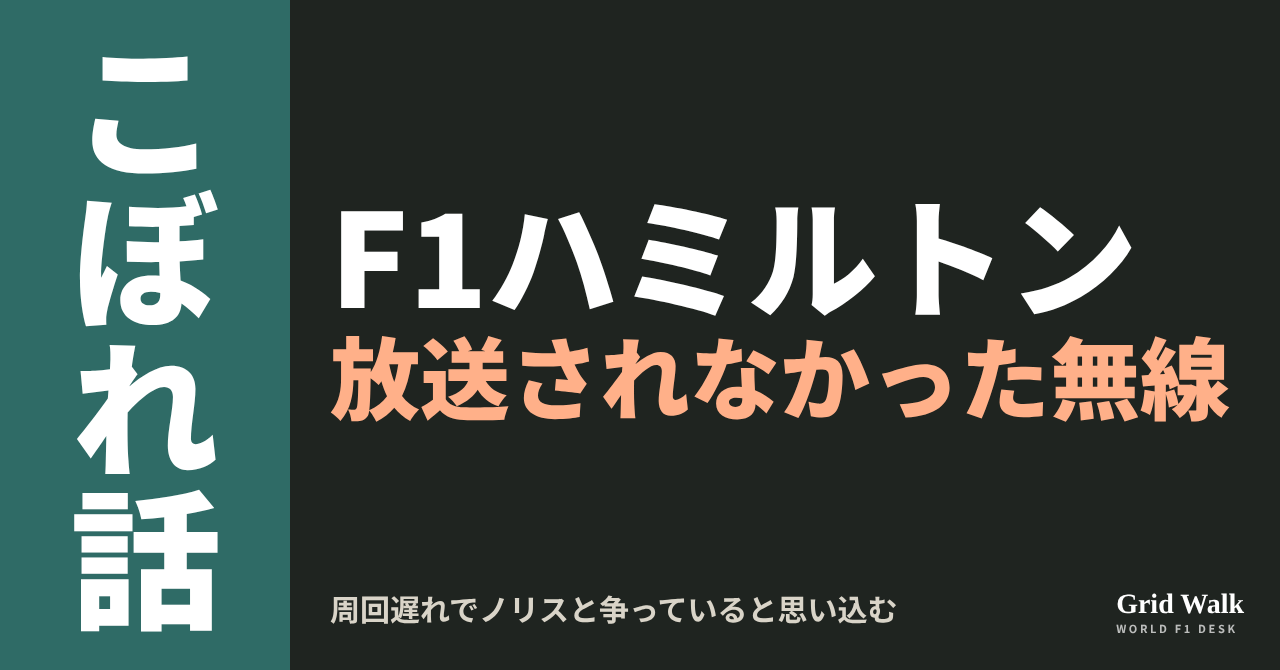
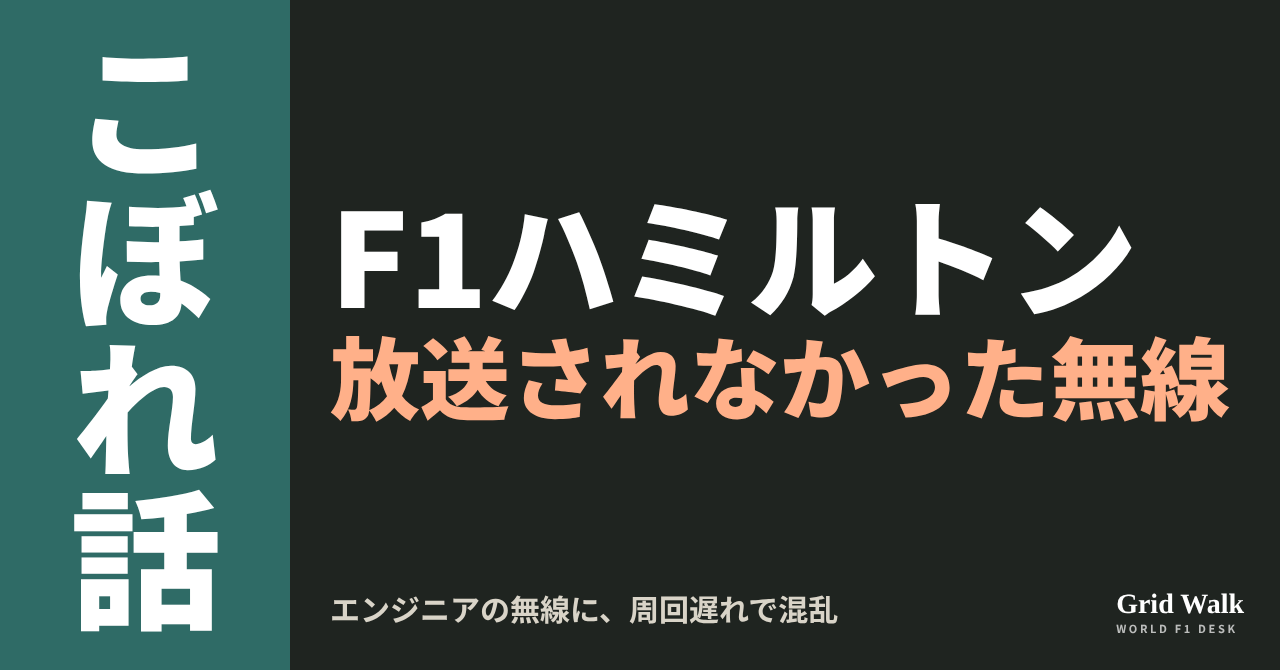
desk: 11/12の画像候補H1・H2を差し替え
Claude-Session: https://claude.ai/code/session_01LGMvzb8B3aK7DkzCCi7qDe

Changed region(s): [[0.25, 0.8657, 0.7188, 0.9552]]

diff --git a/desk/pending/1112/H1.html b/desk/pending/1112/H1.html
@@ -11,7 +11,7 @@ em{font-style:normal;color:#FFB089}
 .br{position:absolute;right:36px;bottom:34px;font:700 28px Georgia,serif}.br small{display:block;font:700 11px 'Noto Sans CJK JP';letter-spacing:.24em;opacity:.7}
 .row{display:flex;align-items:center;gap:28px;white-space:nowrap;font-weight:900}
 .row svg{flex:0 0 auto}
-</style><div class=c><div class=p><b>こぼれ話</b></div><div class=r><div class=l1>F1ハミルトン</div><div class=l2><em>放送されなかった無線</em></div></div><div class=s>周回遅れでノリスと争っていると思い込む</div><div class=br>Grid Walk<small>WORLD F1 DESK</small></div></div>
+</style><div class=c><div class=p><b>こぼれ話</b></div><div class=r><div class=l1>F1ハミルトン</div><div class=l2><em>放送されなかった無線</em></div></div><div class=s>エンジニアの無線に、周回遅れで混乱</div><div class=br>Grid Walk<small>WORLD F1 DESK</small></div></div>
 <script>
 document.querySelectorAll('.l1,.l2,.l3,.s,.row').forEach(el=>{let f=parseFloat(getComputedStyle(el).fontSize);while(el.scrollWidth>el.clientWidth+1&&f>20){f-=2;el.style.fontSize=f+'px'}});
 const r=document.querySelector('.r');let n=0;while(r.scrollHeight>r.clientHeight+1&&n++<80){document.querySelectorAll('.l1,.l2,.l3,.row').forEach(el=>{el.style.fontSize=(parseFloat(getComputedStyle(el).fontSize)-3)+'px'})}

diff --git a/desk/pending/1112/H2.html b/desk/pending/1112/H2.html
@@ -11,7 +11,7 @@ em{font-style:normal;color:#FFB089}
 .br{position:absolute;right:36px;bottom:34px;font:700 28px Georgia,serif}.br small{display:block;font:700 11px 'Noto Sans CJK JP';letter-spacing:.24em;opacity:.7}
 .row{display:flex;align-items:center;gap:28px;white-space:nowrap;font-weight:900}
 .row svg{flex:0 0 auto}
-</style><div class=c><div class=p><b>こぼれ話</b></div><div class=r><div class=l1>F1ハミルトン</div><div class=l2><em>雨は聞いていない</em></div></div><div class=s>インターの指示でコースに残った</div><div class=br>Grid Walk<small>WORLD F1 DESK</small></div></div>
+</style><div class=c><div class=p><b>こぼれ話</b></div><div class=r><div class=l1>F1ハミルトン</div><div class=l2><em>雨は降るの？</em></div></div><div class=s>インターへの指示、ピットの入り口を逃す</div><div class=br>Grid Walk<small>WORLD F1 DESK</small></div></div>
 <script>
 document.querySelectorAll('.l1,.l2,.l3,.s,.row').forEach(el=>{let f=parseFloat(getComputedStyle(el).fontSize);while(el.scrollWidth>el.clientWidth+1&&f>20){f-=2;el.style.fontSize=f+'px'}});
 const r=document.querySelector('.r');let n=0;while(r.scrollHeight>r.clientHeight+1&&n++<80){document.querySelectorAll('.l1,.l2,.l3,.row').forEach(el=>{el.style.fontSize=(parseFloat(getComputedStyle(el).fontSize)-3)+'px'})}
